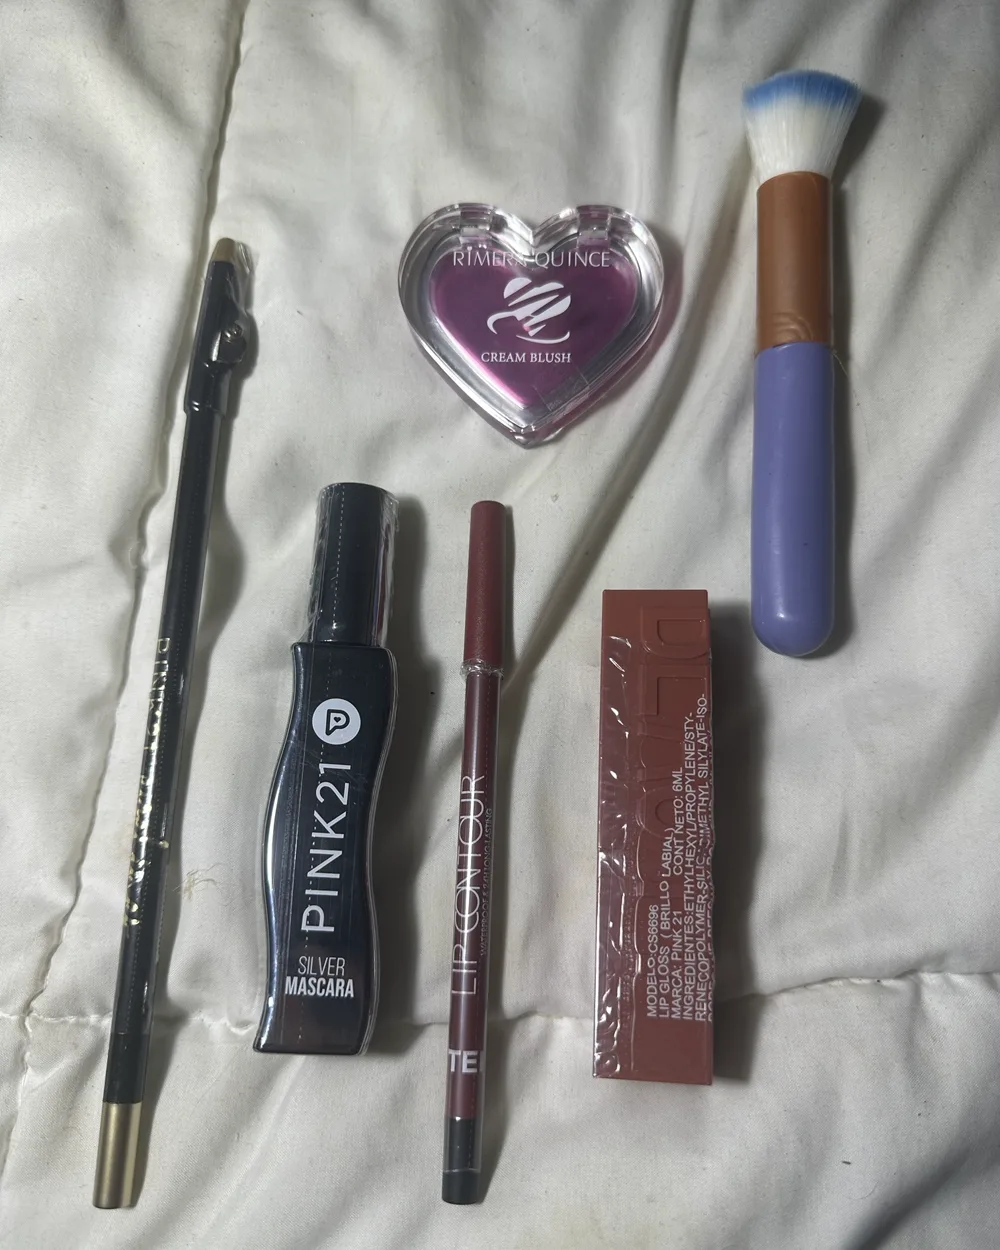
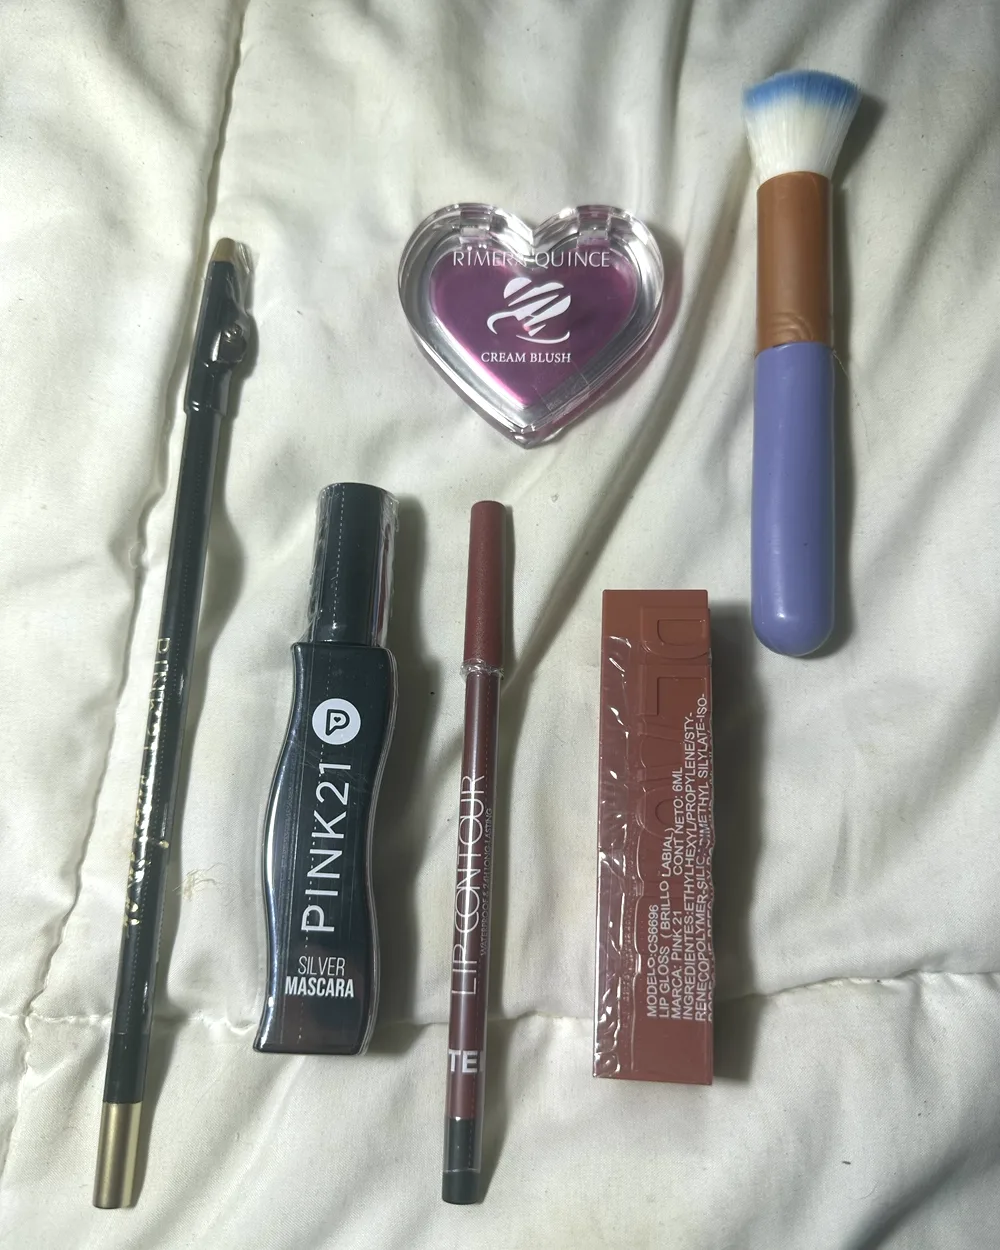
Maquillaje: fotos de borde a borde como las de uñas (sin la placa rosa), tarjetas con foto derechas y fotos de los combos con mejor luz
- MakeupVisual: la foto ocupa toda la tarjeta (object-cover); antes iba achicada dentro de una placa rosa
- MakeupCard: la inclinación queda solo para los dibujos provisorios
- Fotos de los combos con un ajuste suave de brillo, contraste y color
- Puerta de Maquillaje en obra: habla de los combos, no de 29 productos

Claude-Session: https://claude.ai/code/session_018qtEim33LkjdK8CJvAQHrK

diff --git a/components/makeup/MakeupArt.tsx b/components/makeup/MakeupArt.tsx
@@ -837,20 +837,19 @@ export function MakeupVisual({
   alt?: string;
 }) {
   return (
-    <div className={cn("bg-blush ring-lip/5 relative aspect-[4/5] overflow-hidden rounded-lg ring-1", className)}>
+    <div className={cn("ring-bordo/5 relative aspect-[4/5] overflow-hidden rounded-lg ring-1", product.image ? "bg-cream-deep" : "bg-blush", className)}>
       {product.image ? (
-        <div className="bg-blush-soft absolute inset-0">
-          <Image
-            src={product.image}
-            alt={alt}
-            fill
-            sizes={sizes}
-            preload={priority}
-            loading={priority ? "eager" : undefined}
-            quality={90}
-            className="object-contain p-[8%]"
-          />
-        </div>
+        // foto real de borde a borde, como las de uñas (antes iba achicada dentro de una placa rosa y parecía un recuadro)
+        <Image
+          src={product.image}
+          alt={alt}
+          fill
+          sizes={sizes}
+          preload={priority}
+          loading={priority ? "eager" : undefined}
+          quality={90}
+          className="object-cover"
+        />
       ) : (
         <MakeupArt product={product} label={alt || undefined} />
       )}

diff --git a/components/makeup/MakeupCard.tsx b/components/makeup/MakeupCard.tsx
@@ -19,7 +19,9 @@ export function makeupTilt(id: string) {
  * Tarjeta de maquillaje: dibujo o foto en 4:5, etiquetas, marca, nombre, dos líneas y precio, con botón para sumar.
  * Con `tilt`, el dibujo queda apenas inclinado y se endereza al pasar el mouse (o al enfocar la tarjeta).
  */
-export function MakeupCard({ product, priority, tilt }: { product: MakeupProduct; priority?: boolean; tilt?: number }) {
+export function MakeupCard({ product, priority, tilt: tiltProp }: { product: MakeupProduct; priority?: boolean; tilt?: number }) {
+  // las fotos van derechas, como las tarjetas de uñas; la inclinación es solo para los dibujos provisorios
+  const tilt = product.image ? undefined : tiltProp;
   const soldOut = product.stock === 0;
   const few = product.stock === 1;
   const sale = product.priceBefore != null && product.priceBefore > product.price;

diff --git a/components/sections/Doors.tsx b/components/sections/Doors.tsx
@@ -52,7 +52,9 @@ function MakeupDoor({ makeup }: { makeup: MakeupProduct[] }) {
       <div>
         <h2 className="font-display text-[clamp(3rem,7vw,5.25rem)] leading-[0.95]">Maquillaje</h2>
         <p className="mt-3 max-w-[30ch] text-[17px] leading-snug font-semibold">
-          {makeup.length} productos para rostro, ojos, cejas y labios, y las brochas para aplicarlos.
+          {MAKEUP_EN_OBRA
+            ? "Combos listos para llevar. Muy pronto, todo para rostro, ojos y labios."
+            : `${makeup.length} productos para rostro, ojos, cejas y labios, y las brochas para aplicarlos.`}
         </p>
       </div>
 
